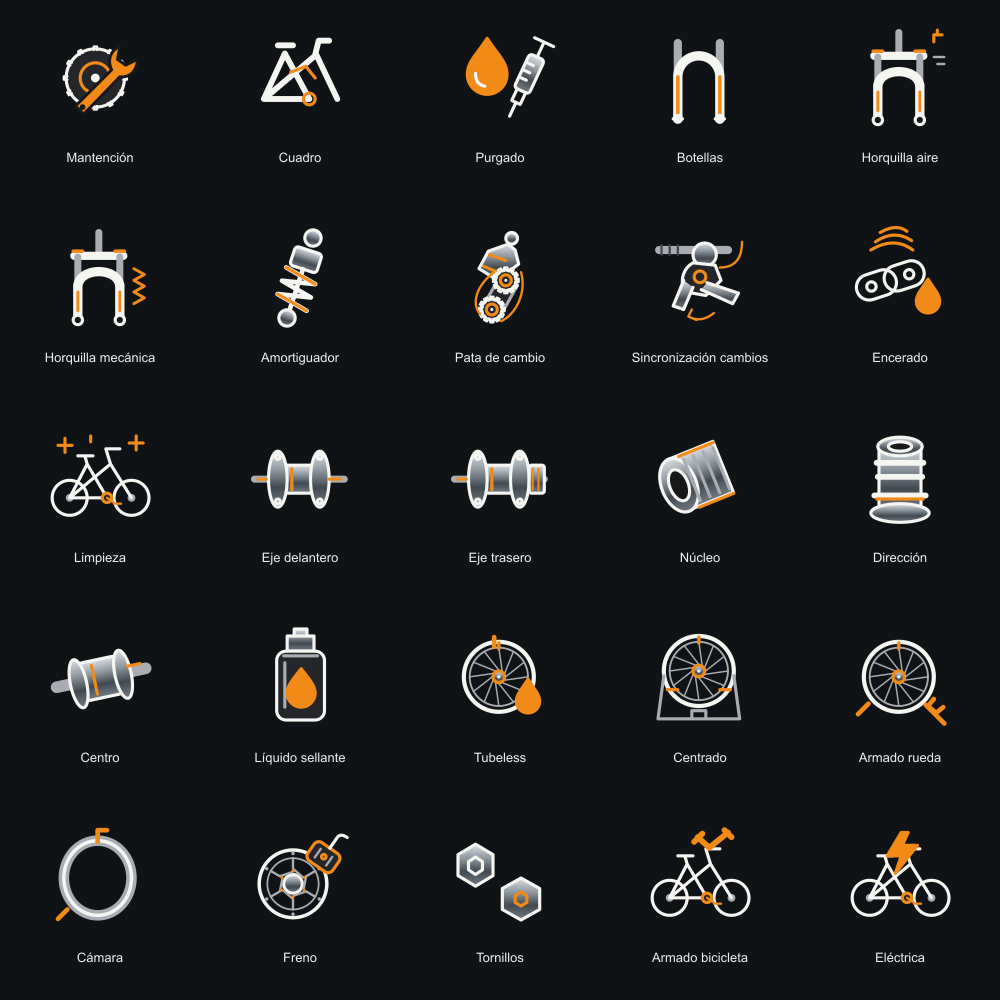
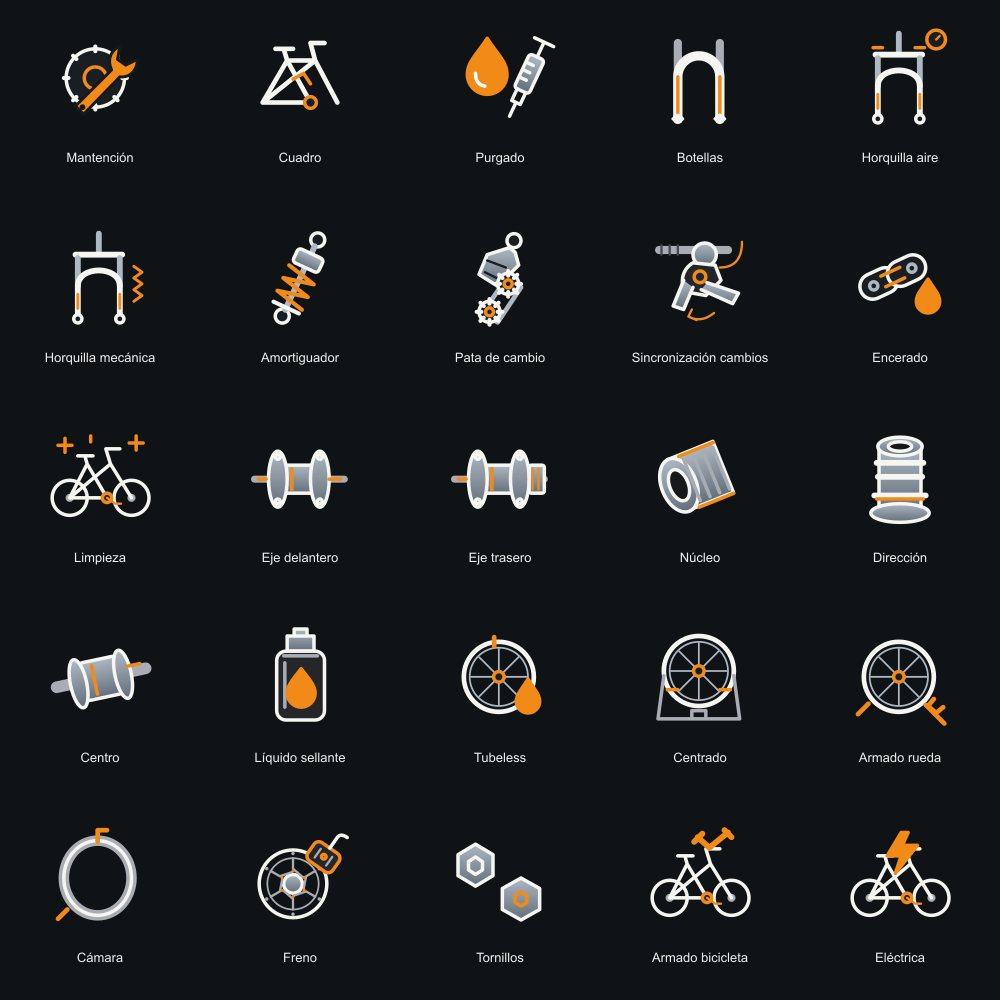
Simplify service pictograms for clear small-size rendering

diff --git a/src/components/ServiceIcon.tsx b/src/components/ServiceIcon.tsx
@@ -4,21 +4,21 @@ import { serviceVisual } from "@/lib/service-visuals";
 /** Workshop pictograms: white technical linework, orange accents and metallic components. */
 export function ServiceIcon({name,slug,size=80}:{name:string;slug:string;size?:number}) {
   const id=useId();const metal=`url(#${id})`;const type=serviceVisual({name,slug});
-  const gear=(x:number,y:number,r:number)=><g><circle cx={x} cy={y} r={r} fill="#242629"/>{Array.from({length:12},(_,i)=><path key={i} transform={`rotate(${i*30} ${x} ${y})`} d={`M${x-1.4} ${y-r+1}v-3h2.8v3`} strokeWidth="2"/>)}<circle cx={x} cy={y} r={r*.52} stroke="#f28a17"/><circle cx={x} cy={y} r={r*.15} fill="#f5f5f2" stroke="none"/></g>;
-  const wheel=<g><circle cx="47" cy="47" r="30" strokeWidth="3.6"/><circle cx="47" cy="47" r="25" stroke="#a9adb3" strokeWidth="1.6"/>{Array.from({length:12},(_,i)=><path key={i} transform={`rotate(${i*30} 47 47)`} d="M47 22 50 43" stroke="#a9adb3" strokeWidth="1.25"/>)}<circle cx="47" cy="47" r="5" fill={metal} stroke="#f28a17"/><circle cx="47" cy="47" r="1.5" fill="#f5f5f2" stroke="none"/><path d="M47 18v5" stroke="#f28a17" strokeWidth="3"/></g>;
-  const fork=<g><path d="M47 9v17" stroke="#a9adb3" strokeWidth="6"/><path d="M26 29h42" strokeWidth="7"/><path d="M29 30v25M65 30v25" stroke="#a9adb3" strokeWidth="6"/><path d="M29 83V54M65 83V54M29 56c0-18 36-18 36 0" strokeWidth="8"/><path d="M29 60v16M65 60v16" stroke="#f28a17" strokeWidth="2.5"/><circle cx="29" cy="84" r="4" fill="#171819"/><circle cx="65" cy="84" r="4" fill="#171819"/><path d="M25 25h8M61 25h8" stroke="#f28a17" strokeWidth="3"/></g>;
+  const gear=(x:number,y:number,r:number)=><g><circle cx={x} cy={y} r={r} fill="#191e23"/>{Array.from({length:8},(_,i)=><path key={i} transform={`rotate(${i*45} ${x} ${y})`} d={`M${x} ${y-r-2}v4`} strokeWidth="3.5"/>)}<circle cx={x} cy={y} r={r*.38} stroke="#f28a17"/></g>;
+  const wheel=<g><circle cx="47" cy="47" r="30" strokeWidth="4"/><circle cx="47" cy="47" r="25" stroke="#aeb8c2" strokeWidth="1.5"/>{[0,45,90,135].map(angle=><path key={angle} d="M23 47h48" transform={`rotate(${angle} 47 47)`} stroke="#aeb8c2" strokeWidth="1.5"/>)}<circle cx="47" cy="47" r="4.5" fill="#191e23" stroke="#f28a17"/></g>;
+  const fork=<g><path d="M47 10v17" stroke="#aeb8c2" strokeWidth="5"/><path d="M27 28h40" strokeWidth="5"/><path d="M29 31v24M65 31v24" stroke="#aeb8c2" strokeWidth="5"/><path d="M29 82V55c0-18 36-18 36 0v27" strokeWidth="5"/><path d="M29 62v12M65 62v12" stroke="#f28a17" strokeWidth="2.5"/><circle cx="29" cy="83" r="3.5" fill="#191e23"/><circle cx="65" cy="83" r="3.5" fill="#191e23"/></g>;
   const drop=<path d="M72 49C67 57 62 62 62 68a10 10 0 0 0 20 0c0-6-5-11-10-19Z" fill="#f28a17" stroke="#f28a17"/>;
   const bike=<g><circle cx="22" cy="65" r="15"/><circle cx="75" cy="65" r="15"/><circle cx="22" cy="65" r="2" stroke="#a9adb3"/><circle cx="75" cy="65" r="2" stroke="#a9adb3"/><path d="M22 65 37 36l17 29H22l35-29 18 29M37 36l-2-7M29 29h13M57 36l-4-13h12"/><circle cx="54" cy="65" r="4" fill="#242629" stroke="#f28a17"/><path d="m54 65 7 5h5" stroke="#f28a17" strokeWidth="2"/></g>;
   let drawing:React.ReactNode;
   switch(type){
-    case "frame":drawing=<g><path d="M17 66 35 27l21 39H17l45-38 18 38M29 20h13M61 28l3-12h9" strokeWidth="5"/><circle cx="56" cy="66" r="5" stroke="#f28a17"/><path d="M40 43 53 38l8 10" stroke="#f28a17"/></g>;break;
+    case "frame":drawing=<g><path d="m16 69 21-36 20 36H16l45-36M37 33h24M37 33l-3-10M27 23h15M61 33l-4-15h12M61 33l19 36" strokeWidth="4"/><circle cx="57" cy="69" r="5" fill="#191e23" stroke="#f28a17"/><path d="m42 49 9-5 6 9" stroke="#f28a17" strokeWidth="3"/></g>;break;
     case "bleed":drawing=<g><path d="M37 14C28 28 20 34 20 45a17 17 0 0 0 34 0c0-11-8-17-17-31Z" fill="#f28a17" stroke="#f28a17"/><path d="M27 44c0 7 3 10 8 11" stroke="#fff"/><g transform="rotate(25 71 49)"><rect x="64" y="28" width="14" height="32" rx="3" fill={metal}/><path d="M71 14v14M62 14h18M67 60v11h8V60M71 71v13M66 36h5M66 43h5M66 50h5"/></g></g>;break;
     case "fork-lowers":drawing=<g><path d="M29 18v28M65 18v28" stroke="#a9adb3" strokeWidth="7"/><path d="M29 82V47a18 18 0 0 1 36 0v35" strokeWidth="8"/><path d="M29 47v33M65 47v33" stroke="#f28a17" strokeWidth="3"/><path d="M25 83h8M61 83h8"/><circle cx="29" cy="83" r="3"/><circle cx="65" cy="83" r="3"/></g>;break;
-    case "fork-air":case "fork-spring":drawing=<g>{fork}{type==="fork-air"?<g><path d="M77 17v-6h7M80 11v-4" stroke="#f28a17"/><path d="M77 30h9M80 36h6" stroke="#a9adb3" strokeWidth="2"/></g>:<path d="m77 40 9 5-9 5 9 5-9 5 9 5-9 5" stroke="#f28a17" strokeWidth="2.5"/>}</g>;break;
-    case "shock":drawing=<g transform="rotate(18 48 48)"><circle cx="48" cy="12" r="7" fill={metal}/><circle cx="48" cy="84" r="7" fill={metal}/><rect x="36" y="23" width="24" height="17" rx="3" fill={metal}/><path d="M48 40v35M34 43l28 6-28 6 28 6-28 6 28 6" strokeWidth="4"/><path d="M34 43l28 6M34 67l28 6" stroke="#f28a17"/></g>;break;
-    case "derailleur":drawing=<g><circle cx="58" cy="14" r="5" fill={metal}/><path d="m55 19-17 6-8 15 16 10 18-14-3-12Z" fill={metal}/><path d="m39 28 14 5M34 38l12 5" stroke="#f28a17"/><path d="m49 45-15 26 13 12 16-29Z" fill="#242629" stroke="#a9adb3"/>{gear(53,50,9)}{gear(41,75,9)}<path d="M66 43c5 17-4 36-17 42M31 79c-8-9-3-25 12-36" stroke="#f28a17" strokeWidth="2"/></g>;break;
-    case "shifter":drawing=<g><path d="M13 24h59" stroke="#a9adb3" strokeWidth="7"/><path d="M15 20v8M22 20v8M29 20v8" stroke="#424950" strokeWidth="2"/><circle cx="52" cy="28" r="10" fill={metal}/><path d="M42 35c-9 5-12 17-6 25l17 3 13-13-5-13Z" fill="#242629"/><circle cx="48" cy="47" r="5" stroke="#f28a17"/><path d="m54 52 27 9-5 9-27-12M42 56l-8 19-9-3 9-22" fill={metal}/><path d="M65 39q19 0 19-22" stroke="#f28a17" strokeWidth="2"/><path d="M60 78q-11 9-22 3m0 0 3-6m-3 6 7 3" stroke="#f28a17" strokeWidth="2"/></g>;break;
-    case "wax":drawing=<g><g transform="rotate(-18 40 51)"><rect x="10" y="39" width="35" height="22" rx="11"/><rect x="35" y="39" width="35" height="22" rx="11"/><circle cx="23" cy="50" r="4"/><circle cx="57" cy="50" r="4"/></g><path d="M23 24q20-12 36 0M27 17q16-11 31-1M31 9q14-8 23-1" stroke="#f28a17"/>{drop}</g>;break;
+    case "fork-air":case "fork-spring":drawing=<g>{fork}{type==="fork-air"?<g><path d="M25 22h8M61 22h8" stroke="#f28a17" strokeWidth="3"/><circle cx="79" cy="15" r="8" fill="#191e23" stroke="#f28a17"/><path d="m79 15 3-3" stroke="#f28a17" strokeWidth="2"/></g>:<path d="m77 38 7 5-7 5 7 5-7 5 7 5-7 5" stroke="#f28a17" strokeWidth="2.5"/>}</g>;break;
+    case "shock":drawing=<g transform="rotate(25 48 48)"><circle cx="48" cy="12" r="6" fill="#191e23"/><circle cx="48" cy="84" r="6" fill="#191e23"/><path d="M48 18v60" stroke="#aeb8c2" strokeWidth="5"/><rect x="36" y="25" width="24" height="13" rx="3" fill={metal}/><path d="m35 42 26 6-26 6 26 6-26 6 26 6" stroke="#f28a17" strokeWidth="3.5"/><path d="M36 76h24" strokeWidth="3.5"/></g>;break;
+    case "derailleur":drawing=<g><circle cx="60" cy="16" r="6" fill="#191e23"/><path d="m56 22-19 6-7 17 16 10 18-18-3-11Z" fill={metal}/><path d="m37 33 16 6M35 43l10 5" stroke="#191e23" strokeWidth="2"/><path d="m53 49-20 29 13 8 20-30" stroke="#aeb8c2" strokeWidth="4"/>{gear(55,53,9)}{gear(39,77,9)}</g>;break;
+    case "shifter":drawing=<g><path d="M14 25h62" stroke="#aeb8c2" strokeWidth="7"/><circle cx="52" cy="25" r="9" fill={metal}/><path d="M43 35c-10 4-14 15-9 24l17 4 15-15-5-12Z" fill="#191e23"/><circle cx="48" cy="47" r="5" stroke="#f28a17"/><path d="m52 55 26 10-5 9-26-12M38 56l-8 20-9-4 9-21" fill={metal}/><path d="M65 36q18 0 18-20" stroke="#f28a17" strokeWidth="2.5"/></g>;break;
+    case "wax":drawing=<g><g transform="rotate(-25 40 48)"><rect x="12" y="37" width="34" height="22" rx="11" fill="#191e23"/><rect x="38" y="37" width="34" height="22" rx="11" fill="#191e23"/><circle cx="24" cy="48" r="3.5" stroke="#aeb8c2"/><circle cx="60" cy="48" r="3.5" stroke="#aeb8c2"/><path d="M33 43h18M33 53h18" stroke="#f28a17"/></g>{drop}</g>;break;
     case "cleaning":drawing=<g>{bike}<path d="M18 14v12M12 20h12M79 12v12M73 18h12M40 12v5" stroke="#f28a17"/></g>;break;
     case "hub-front":case "hub-rear":drawing=<g><path d="M9 49h77" strokeWidth="6" stroke="#a9adb3"/><rect x="27" y="37" width="41" height="24" rx="8" fill={metal}/><ellipse cx="29" cy="49" rx="8" ry="24" fill={metal}/><ellipse cx="65" cy="49" rx="8" ry="24" fill={metal}/><path d="M19 49h-7M73 49h10M41 40v18" stroke="#f28a17"/><circle cx="29" cy="30" r="2"/><circle cx="29" cy="68" r="2"/><circle cx="65" cy="30" r="2"/><circle cx="65" cy="68" r="2"/>{type==="hub-rear"&&<g><rect x="73" y="37" width="13" height="24" rx="2" fill={metal}/><path d="M76 40v18M81 40v18" stroke="#f28a17" strokeWidth="1.8"/></g>}</g>;break;
     case "freehub":drawing=<g transform="rotate(-22 48 48)"><path d="M28 23h42v47H28Z" fill={metal}/><ellipse cx="29" cy="47" rx="15" ry="24" fill={metal}/><ellipse cx="29" cy="47" rx="8" ry="14" fill="#171819"/><path d="M41 28v38M50 28v38M59 28v38M68 28v38" stroke="#a9adb3"/><path d="M38 24h32M38 71h32" stroke="#f28a17"/></g>;break;
@@ -29,11 +29,11 @@ export function ServiceIcon({name,slug,size=80}:{name:string;slug:string;size?:n
     case "truing":drawing=<g transform="translate(0 -5)">{wheel}<path d="M17 51 12 88h70l-5-37M41 88v-7h12v7" stroke="#a9adb3"/><path d="M20 63h9M65 63h9" stroke="#f28a17"/></g>;break;
     case "wheel-build":drawing=<g>{wheel}<path d="M70 71 86 87M77 66l-5 6 7 6 6-5M12 79l9-9" stroke="#f28a17" strokeWidth="4"/></g>;break;
     case "tube":drawing=<g><ellipse cx="46" cy="48" rx="29" ry="32" strokeWidth="9" stroke="#a9adb3"/><ellipse cx="46" cy="48" rx="29" ry="32" strokeWidth="3"/><path d="M46 17V7h8M20 75l-8 8" stroke="#f28a17" strokeWidth="4"/></g>;break;
-    case "brake":drawing=<g><circle cx="42" cy="53" r="29" strokeWidth="3"/><circle cx="42" cy="53" r="22" stroke="#a9adb3" strokeWidth="1.5"/><circle cx="42" cy="53" r="8" fill={metal}/>{Array.from({length:6},(_,i)=><g key={i} transform={`rotate(${i*60} 42 53)`}><path d="M42 31v9l8 7" stroke="#a9adb3" strokeWidth="2"/><circle cx="42" cy="27" r="1.5" fill="#a9adb3" stroke="none"/><circle cx="42" cy="42" r="1.4" fill="#f28a17" stroke="none"/></g>)}<g transform="rotate(35 67 30)"><rect x="55" y="20" width="26" height="19" rx="5" fill="#242629" stroke="#f28a17"/><path d="M62 25v9M74 25v9" stroke="#a9adb3" strokeWidth="2"/><circle cx="68" cy="29" r="2" stroke="#f28a17"/><path d="M68 20V9q0-5 7-5"/></g></g>;break;
+    case "brake":drawing=<g><circle cx="41" cy="55" r="28" strokeWidth="4"/><circle cx="41" cy="55" r="20" stroke="#aeb8c2" strokeWidth="2"/>{[0,60,120,180,240,300].map(angle=><path key={angle} d="M41 35v12l7 4" transform={`rotate(${angle} 41 55)`} stroke="#aeb8c2" strokeWidth="2.5"/>)}<circle cx="41" cy="55" r="7" fill={metal}/><g transform="rotate(30 68 28)"><rect x="55" y="18" width="25" height="23" rx="5" fill="#191e23" stroke="#f28a17" strokeWidth="3.5"/><path d="M62 24v11M73 24v11" stroke="#aeb8c2" strokeWidth="2.5"/><path d="M68 18V9q0-5 7-5"/></g></g>;break;
     case "bolts":drawing=<g><path d="m27 19 15 9v18l-15 9-15-9V28Z" fill={metal}/><path d="m27 30 6 4v7l-6 4-6-4v-7Z"/><path d="m66 48 16 9v18l-16 9-16-9V57Z" fill={metal}/><path d="m66 60 5 3v6l-5 3-5-3v-6Z" stroke="#f28a17"/></g>;break;
     case "bike-build":drawing=<g>{bike}<path d="m46 13 10 9 16-13M50 10l-7 7M69 7l6 6" stroke="#f28a17" strokeWidth="5"/></g>;break;
     case "electric":drawing=<g>{bike}<path d="m49 9-12 20h12l-5 15 19-24H50l5-11Z" fill="#f28a17" stroke="#f28a17"/></g>;break;
     default:drawing=<g>{gear(44,48,25)}<path d="m27 72 31-31c-4-8-1-17 7-20l-2 11 7 5 10-5c0 10-7 16-15 15L34 79Z" fill="#f28a17" stroke="#171819" strokeWidth="2.5"/><circle cx="33" cy="73" r="2.5" fill="#171819" stroke="none"/></g>;
   }
-  return <svg className="tp-service-icon" width={size} height={size} viewBox="0 0 96 96" fill="none" stroke="#f5f5f2" strokeWidth="2.7" strokeLinecap="round" strokeLinejoin="round" aria-hidden="true" focusable="false"><defs><linearGradient id={id} x1="0" y1="0" x2="0" y2="1"><stop stopColor="#dce0e4"/><stop offset=".32" stopColor="#939ba3"/><stop offset=".65" stopColor="#424950"/><stop offset="1" stopColor="#737c85"/></linearGradient></defs>{drawing}</svg>;
+  return <svg className="tp-service-icon" width={size} height={size} viewBox="0 0 96 96" fill="none" stroke="#f5f5f2" strokeWidth="3" strokeLinecap="round" strokeLinejoin="round" aria-hidden="true" focusable="false"><defs><linearGradient id={id} x1="0" y1="0" x2="0" y2="1"><stop stopColor="#aeb8c2"/><stop offset="1" stopColor="#626e79"/></linearGradient></defs>{drawing}</svg>;
 }
